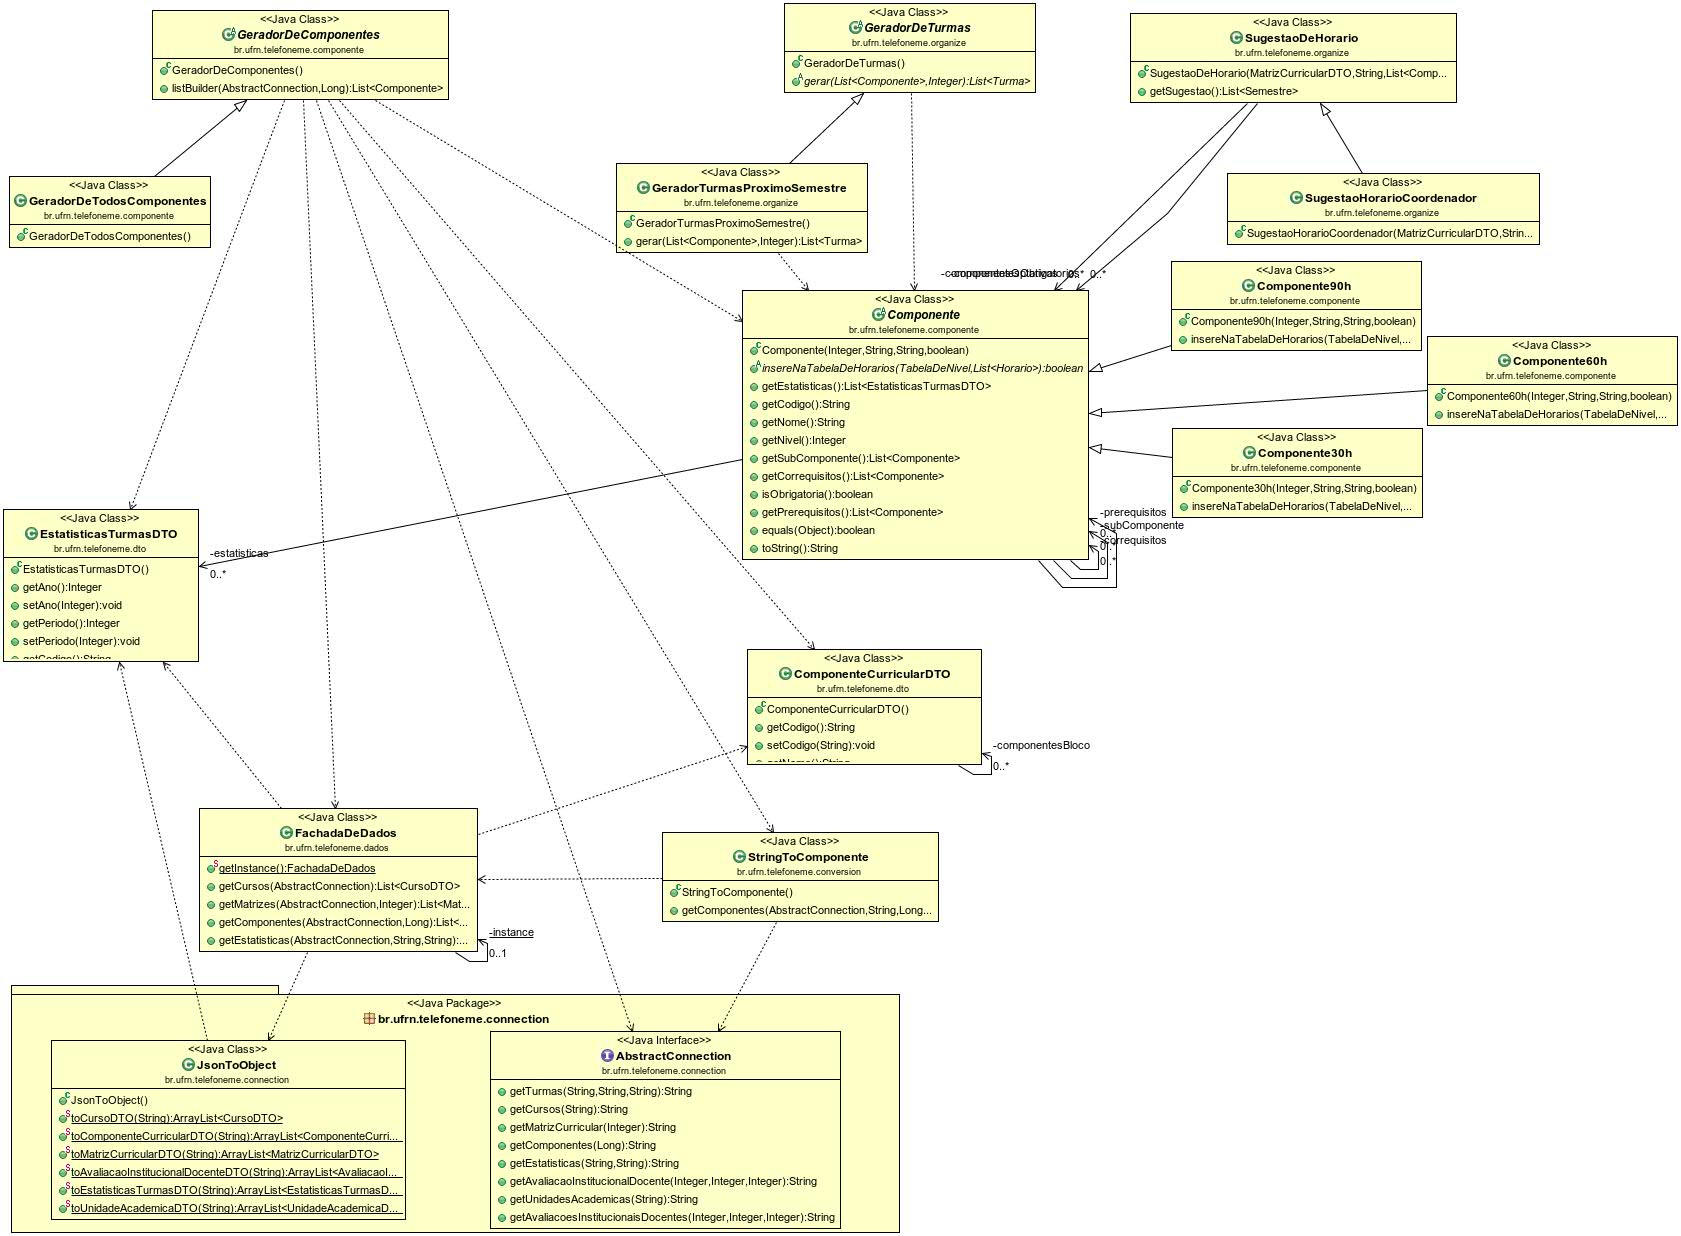
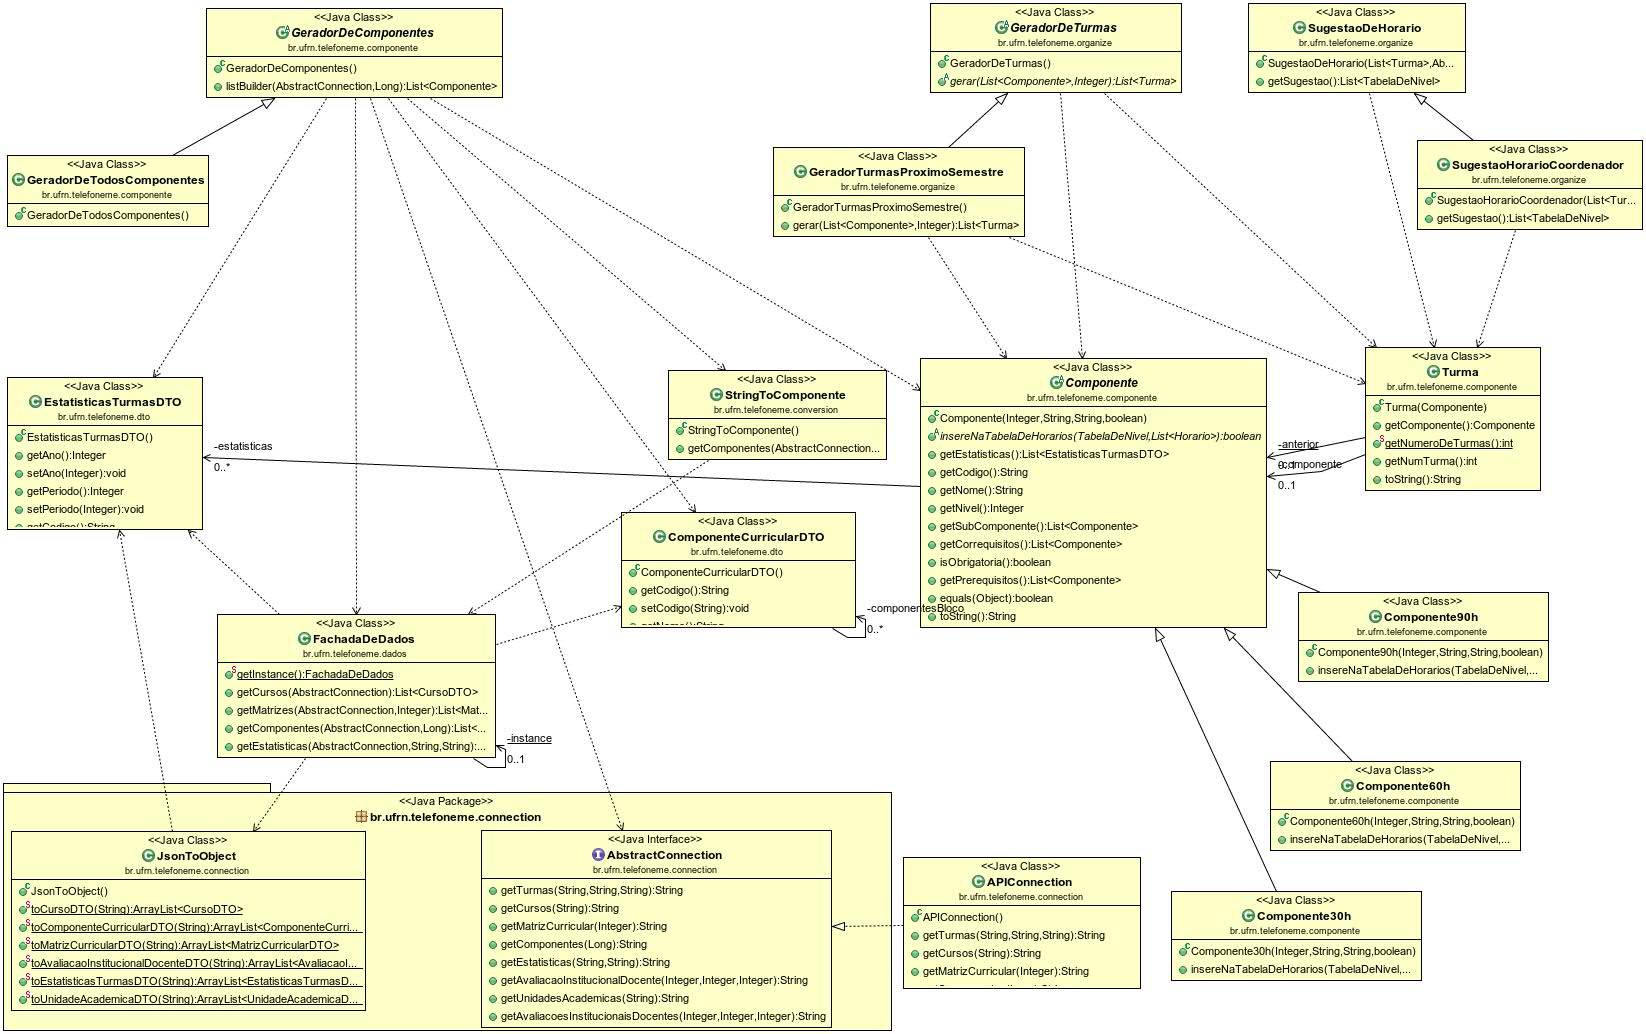
PRESENTATION 1

diff --git a/src/br/ufrn/telefoneme/organize/SugestaoDeHorario.java b/src/br/ufrn/telefoneme/organize/SugestaoDeHorario.java
@@ -9,6 +9,9 @@ import br.ufrn.telefoneme.auxiliarhorario.Semana;
 import br.ufrn.telefoneme.auxiliarhorario.TurnoFactory;
 import br.ufrn.telefoneme.componente.Componente;
 import br.ufrn.telefoneme.componente.GeradorDeComponentes;
+import br.ufrn.telefoneme.componente.GeradorDeTodosComponentes;
+import br.ufrn.telefoneme.componente.Turma;
+import br.ufrn.telefoneme.connection.AbstractConnection;
 import br.ufrn.telefoneme.dto.ComponenteCurricularDTO;
 import br.ufrn.telefoneme.dto.MatrizCurricularDTO;
 import br.ufrn.telefoneme.exception.CargaHorariaDesconhecidaException;
@@ -23,28 +26,22 @@ import br.ufrn.telefoneme.exception.JsonStringInvalidaException;
  *
  */
 public class SugestaoDeHorario {
-	private final List<Semestre> tabelas;
+	private final List<TabelaDeNivel> tabelas;
 	private final List<Componente> componentesObrigatorios;
 	private final List<Componente> componentesOptativos;
 	
-	public SugestaoDeHorario(MatrizCurricularDTO matriz, String turno,List<ComponenteCurricularDTO> componentesDaGrade) throws IdException, JsonStringInvalidaException, CargaHorariaDesconhecidaException, ConnectionException{
+	public SugestaoDeHorario(List<Turma> turmas,AbstractConnection connection, MatrizCurricularDTO matriz, String turno,List<ComponenteCurricularDTO> componentesDaGrade) throws IdException, JsonStringInvalidaException, CargaHorariaDesconhecidaException, ConnectionException{
 		this.tabelas=new ArrayList<>();
 		this.componentesObrigatorios=new ArrayList<>();
 		this.componentesOptativos=new ArrayList<>();
 		
 		//Criando horarios
 		for (int nivel = 1; nivel <= matriz.getSemestreConclusaoIdeal(); nivel++) {
-			tabelas.add(new Semestre(nivel, new TurnoFactory().geraTurno(turno),
+			tabelas.add(new TabelaDeNivel(nivel, new TurnoFactory().geraTurno(turno),
 					new Semana(new Dia(2), new Dia(7))));
 		}
 		
-		//Convertendo componentes
-		for(ComponenteCurricularDTO componenteDaGrade:componentesDaGrade){
-			if(componenteDaGrade.isObrigatoria())
-				componentesObrigatorios.add(new GeradorDeComponentes().geraNovoComponente(componenteDaGrade, matriz.getIdCurriculo()));
-			else
-				componentesOptativos.add(new GeradorDeComponentes().geraNovoComponente(componenteDaGrade, matriz.getIdCurriculo()));
-		}
+		componentesObrigatorios.addAll(new GeradorDeTodosComponentes().listBuilder(connection,matriz.getIdCurriculo()));
 		
 		//Ordenando componentes por CH e por quantidade de prerequisitos
 		componentesObrigatorios.sort(new Comparator<Componente>(){
@@ -62,11 +59,11 @@ public class SugestaoDeHorario {
 		});
 	}
 
-	public List<Semestre> getSugestao() {
+	public List<TabelaDeNivel> getSugestao() {
 		for (int nivel = 1; nivel <= tabelas.size(); nivel++) {
 			for (Componente componente : componentesObrigatorios) {
 				if (componente.getNivel().equals(nivel)) {
-					for (Semestre tabela : tabelas) {
+					for (TabelaDeNivel tabela : tabelas) {
 						if (tabela.getNivel().equals(componente.getNivel())) {
 							if (componente.getPrerequisitos().isEmpty()) {
 								componente.insereNaTabelaDeHorarios(tabela, null);

diff --git a/src/br/ufrn/telefoneme/organize/SugestaoHorarioCoordenador.java b/src/br/ufrn/telefoneme/organize/SugestaoHorarioCoordenador.java
@@ -1,0 +1,30 @@
+package br.ufrn.telefoneme.organize;
+
+import java.util.ArrayList;
+import java.util.List;
+
+import br.ufrn.telefoneme.componente.Componente;
+import br.ufrn.telefoneme.componente.Componente30h;
+import br.ufrn.telefoneme.componente.Turma;
+import br.ufrn.telefoneme.connection.AbstractConnection;
+import br.ufrn.telefoneme.dto.ComponenteCurricularDTO;
+import br.ufrn.telefoneme.dto.MatrizCurricularDTO;
+import br.ufrn.telefoneme.exception.CargaHorariaDesconhecidaException;
+import br.ufrn.telefoneme.exception.ConnectionException;
+import br.ufrn.telefoneme.exception.IdException;
+import br.ufrn.telefoneme.exception.JsonStringInvalidaException;
+
+public class SugestaoHorarioCoordenador extends SugestaoDeHorario {
+
+	public SugestaoHorarioCoordenador(List<Turma> turmas,AbstractConnection connection,MatrizCurricularDTO matriz, String turno,
+			List<ComponenteCurricularDTO> componentesDaGrade)
+			throws IdException, JsonStringInvalidaException, CargaHorariaDesconhecidaException, ConnectionException {
+		super(turmas, connection, matriz, turno, componentesDaGrade);
+		// TODO Auto-generated constructor stub
+	}
+	public List<TabelaDeNivel> getSugestao() {
+		Componente c= new Componente30h(null, null, null, false);
+		return new ArrayList<TabelaDeNivel>();
+	}
+
+}

diff --git a/src/br/ufrn/telefoneme/organize/TabelaDeNivel.java b/src/br/ufrn/telefoneme/organize/TabelaDeNivel.java
@@ -18,6 +18,7 @@ import br.ufrn.telefoneme.componente.Turma;
  * 
  */
 public class TabelaDeNivel {
+	/*
 	private final List<Turma> turmas;
 	private final Integer nivel;
 	
@@ -45,11 +46,10 @@ public class TabelaDeNivel {
 			return this.nivel.equals(o);
 		}
 		return false;
-	}
+	}*/
 	
-	/*private final Integer nivel;
+	private final Integer nivel;
 	private final Map<Horario,Componente> tabela;
-	//TODO May be add/remove this fields after
 	//private final Semana semana;
 	//private final Turno
 	
@@ -102,7 +102,7 @@ public class TabelaDeNivel {
 	 * @param dia
 	 * @return
 	 */
-	/*
+	
 	public List<Horario> getHorariosPeloDia(Dia dia){
 		List<Horario> horariosPorDia=new ArrayList<>();
 		for(Horario hor:tabela.keySet()){
@@ -117,8 +117,8 @@ public class TabelaDeNivel {
 	 * @param horario
 	 * @return
 	 */
-	/*
-	public List<Horario> getHorariosPeloHorario( Integer horario){
+	
+	public List<Horario> getHorariosPeloHorario(Integer horario){
 		//TODO COlocar turno como parametro para matrizes com mais de um turno
 		List<Horario> horariosPorDia=new ArrayList<>();
 		for(Horario hor:tabela.keySet()){
@@ -130,8 +130,6 @@ public class TabelaDeNivel {
 
 	public Map<Horario, Componente> getTabela() {
 		return tabela;
-	}*/
-
-
+	}
 
 }
